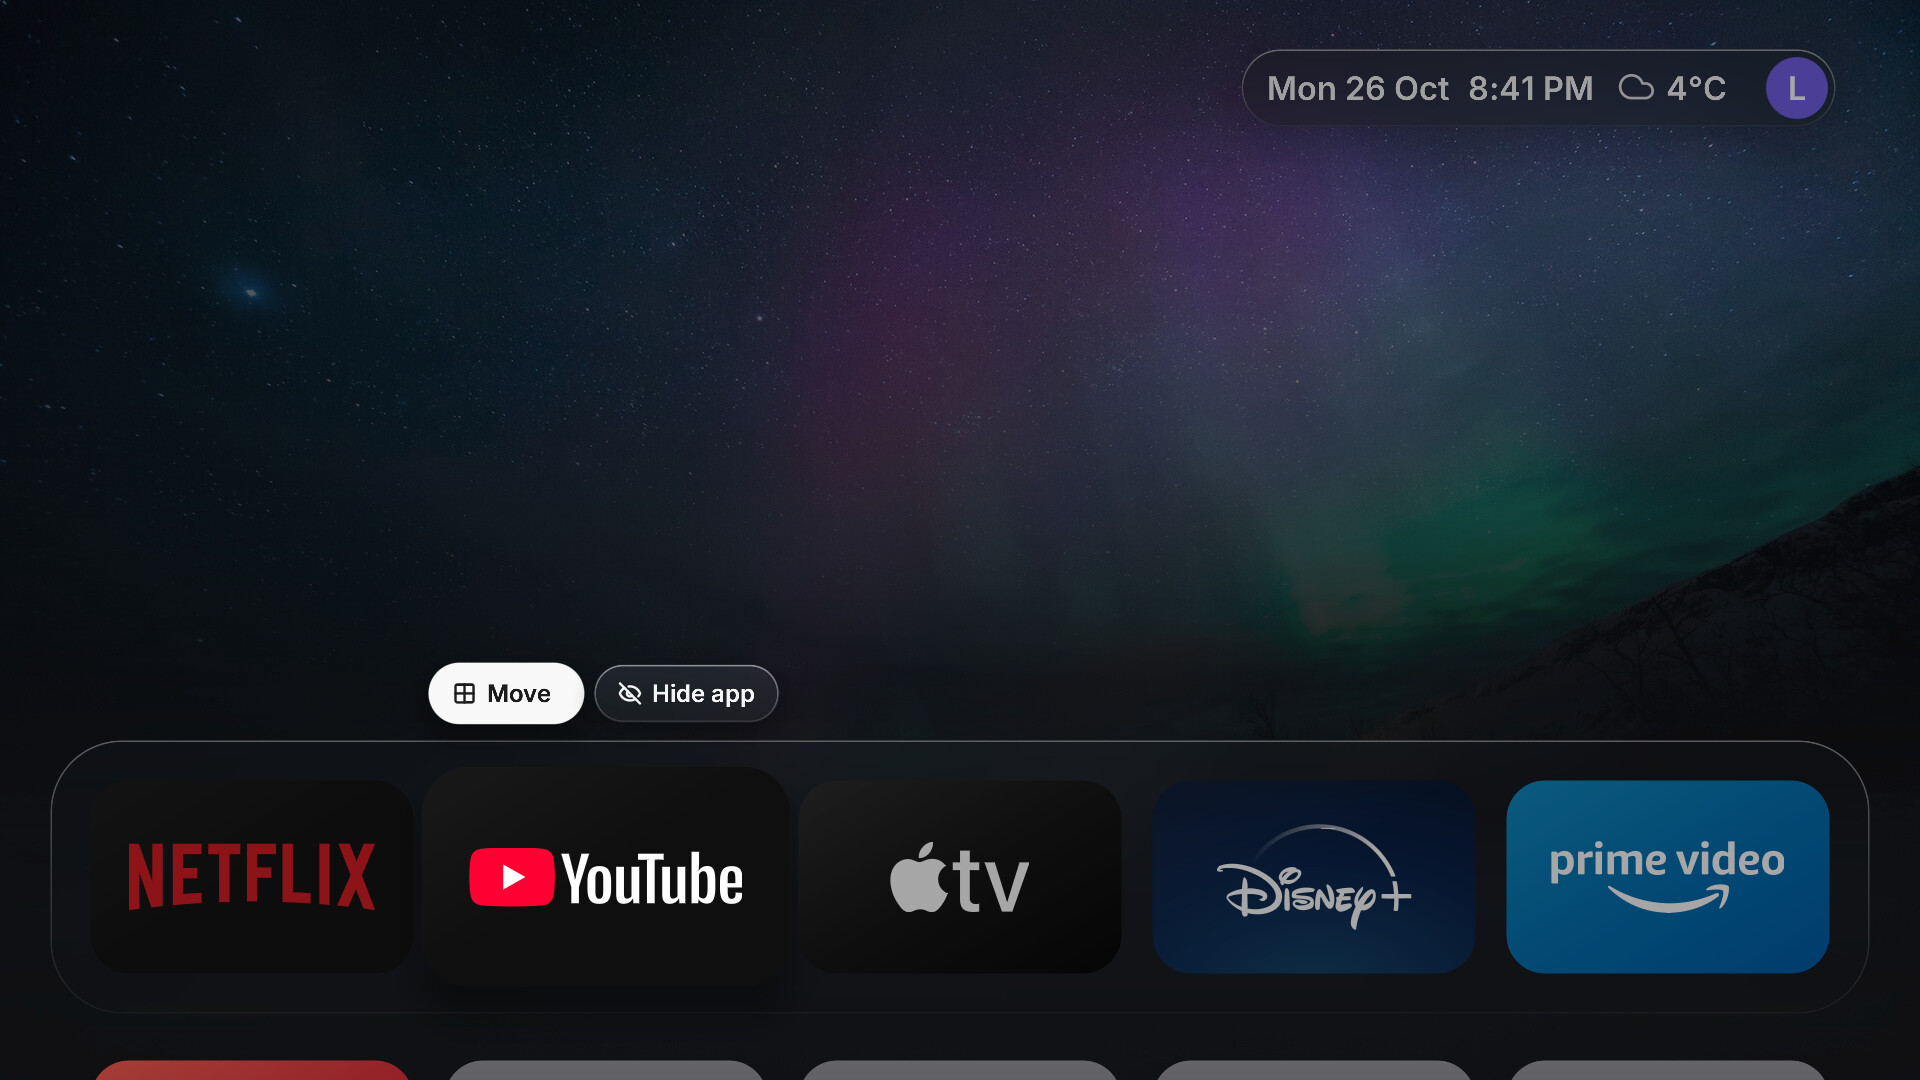
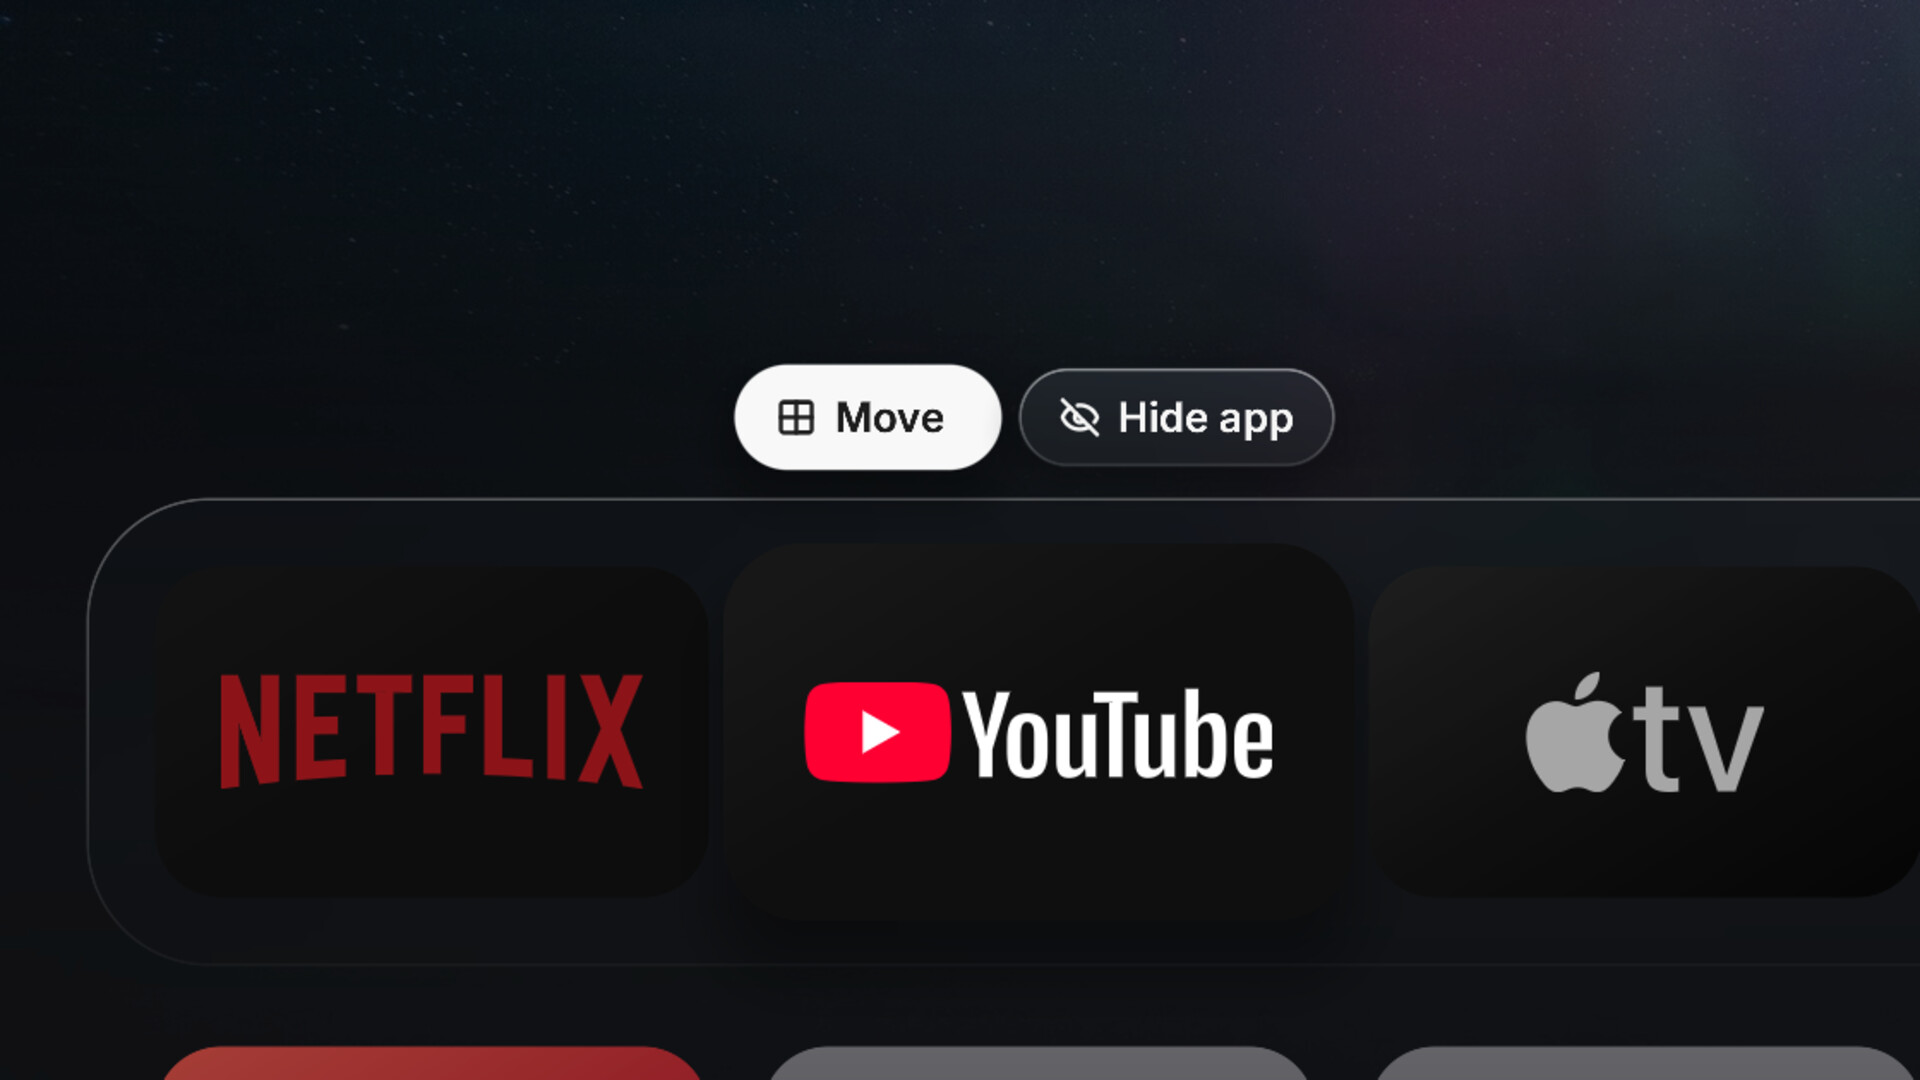
README tour: six screens, no repeats; dock shots cropped so the pills read

diff --git a/readme.md b/readme.md
@@ -44,26 +44,18 @@ Native, fast and quiet, so the only thing you notice is what you came to watch.
   </tr>
   <tr>
     <td width="50%"><img src="docs/readme/menu.jpg" alt="Holding OK on an app shows Move and Hide as glass pills against it"></td>
-    <td width="50%"><img src="docs/readme/move.jpg" alt="Moving an app along the dock"></td>
+    <td width="50%"><img src="docs/readme/move.jpg" alt="YouTube lifted and moved one place along the dock"></td>
   </tr>
   <tr>
-    <td align="center"><sub><b>Hold OK</b> on an app to move or hide it</sub></td>
+    <td align="center"><sub><b>Hold OK</b>: the app stays lit, its actions appear beside it</sub></td>
     <td align="center"><sub><b>Move</b>: the app lifts and slides where you want it</sub></td>
   </tr>
   <tr>
-    <td width="50%"><img src="docs/readme/settings.jpg" alt="Settings, tinted by the wallpaper"></td>
     <td width="50%"><img src="docs/readme/light-settings.jpg" alt="Settings in the Light appearance"></td>
-  </tr>
-  <tr>
-    <td align="center"><sub><b>Settings</b>, tinted by the wallpaper behind it</sub></td>
-    <td align="center"><sub><b>Light</b>, <b>Dark</b> or <b>Automatic</b> by time of day</sub></td>
-  </tr>
-  <tr>
-    <td width="50%"><img src="docs/readme/light-menu.jpg" alt="App actions in the Light appearance"></td>
     <td width="50%"><img src="docs/readme/search.jpg" alt="Search with a one-row keyboard"></td>
   </tr>
   <tr>
-    <td align="center"><sub>Glass that follows the appearance</sub></td>
+    <td align="center"><sub><b>Light</b>, <b>Dark</b> or <b>Automatic</b> by time of day</sub></td>
     <td align="center"><sub><b>Search</b> finds any app as you type</sub></td>
   </tr>
 </table>
